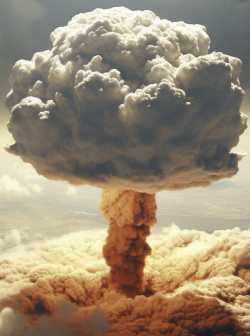
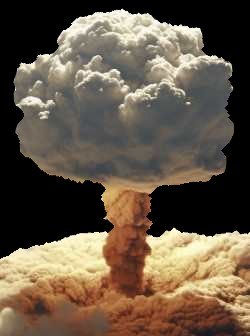
en noir c'est mieux

diff --git a/Storyboard.py b/Storyboard.py
@@ -1,5 +1,6 @@
 import pyray as rl
 from pyray import Camera3D, Color, KeyboardKey, Matrix, Rectangle, Vector2, Vector3, Vector4
+import time as t
 screenWidth = 800
 screenHeight = 450
 RAYWHITE = Color(245, 245, 245, 255)
@@ -16,32 +17,36 @@ font = rl.load_font_ex("storyboard_image/ABC.ttf", 64, 0, 10)
 Page = 0
 
 rl.set_target_fps(60)
-
+syc=False
 while not rl.window_should_close():
-    if rl.is_key_down(rl.KeyboardKey.KEY_SPACE):
-        Page +=1
+    if rl.is_key_down(rl.KeyboardKey.KEY_SPACE) and syc==False:
+        Page+=1
+        syc=True
     rl.begin_drawing()
 
-    rl.clear_background(RAYWHITE)
+    rl.clear_background(BLACK)
 
-    if Page>20 and Page<40:
-        rl.draw_text("2026. La Terre est dans un état critique", 10, int(screenHeight/2 + page4.width/2), 20, BLACK)
+    if Page==1:
+        rl.draw_text("2026. La Terre est dans un état critique", 10, int(screenHeight/2 + page4.width/2), 20, RAYWHITE)
 
-    if Page>40 and Page<60:
+    if Page==2:
         rl.draw_texture(page2, int(screenWidth/2 - page2.width/2), 50, RAYWHITE)
-        rl.draw_text("L'Europe est ravagé par la guerre nucléaire causée par Poutine", 10, int(screenHeight/2 + page4.width/2), 20, BLACK)
+        rl.draw_text("L'Europe est ravagé par la guerre nucléaire causée par Poutine", 10, int(screenHeight/2 + page4.width/2), 20, RAYWHITE)
 
-    if Page>60 and Page<80:
+    if Page==3:
         rl.draw_texture(page3, int(screenWidth/2 - page3.width/2), 50, RAYWHITE)
-        rl.draw_text("Les Etats-Unis se sont effondrés sous le gouvernement de Trump", 10, int(screenHeight/2 + page4.width/2), 20, BLACK)
-       
-    if Page>80 and Page<100:
-        rl.draw_texture(page4, int(screenWidth/2 - page4.width/2), 50, RAYWHITE)
-        rl.draw_text("Et lorsque le dernier cookie de la boîte disparu mystérieusement", 10, int(screenHeight/2 + page4.width/2), 20, BLACK)
+        rl.draw_text("Les Etats-Unis se sont effondrés sous le gouvernement de Trump", 10, int(screenHeight/2 + page4.width/2), 20, RAYWHITE)
 
-    if Page>100 and Page<120:
+    if Page==4:
+        rl.draw_texture(page4, int(screenWidth/2 - page4.width/2), 50, RAYWHITE)
+        rl.draw_text("Et lorsque le dernier cookie de la boîte disparu mystérieusement", 10, int(screenHeight/2 + page4.width/2), 20, RAYWHITE)
+
+    if Page==5:
         rl.draw_texture(page5, int(screenWidth/2 - page5.width/2), 50, RAYWHITE)
-        rl.draw_text("Les Terminales NSI partirent en quête d'un monde meilleur", 10, int(screenHeight/2 + page5.width/2), 20, BLACK)
-        
+        rl.draw_text("Les Terminales NSI partirent en quête d'un monde meilleur", 10, int(screenHeight/2 + page5.width/2), 20, RAYWHITE)
+
     rl.end_drawing()
+    if syc==True:
+        t.sleep(3)
+        syc=False
 rl.close_window()
